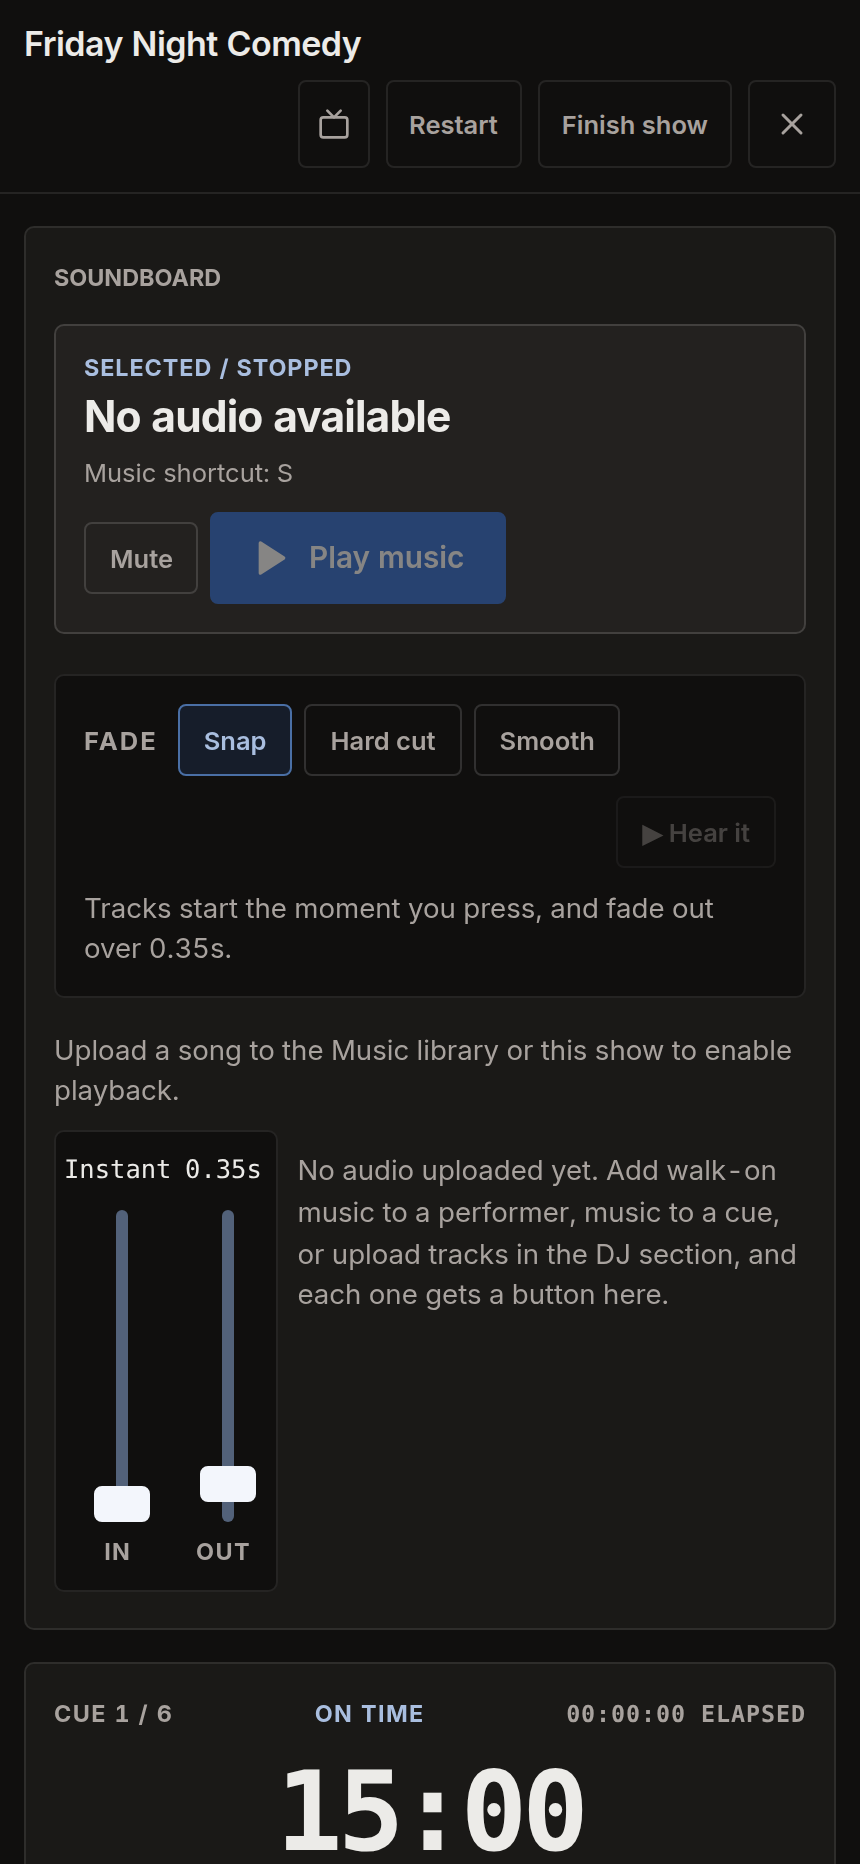
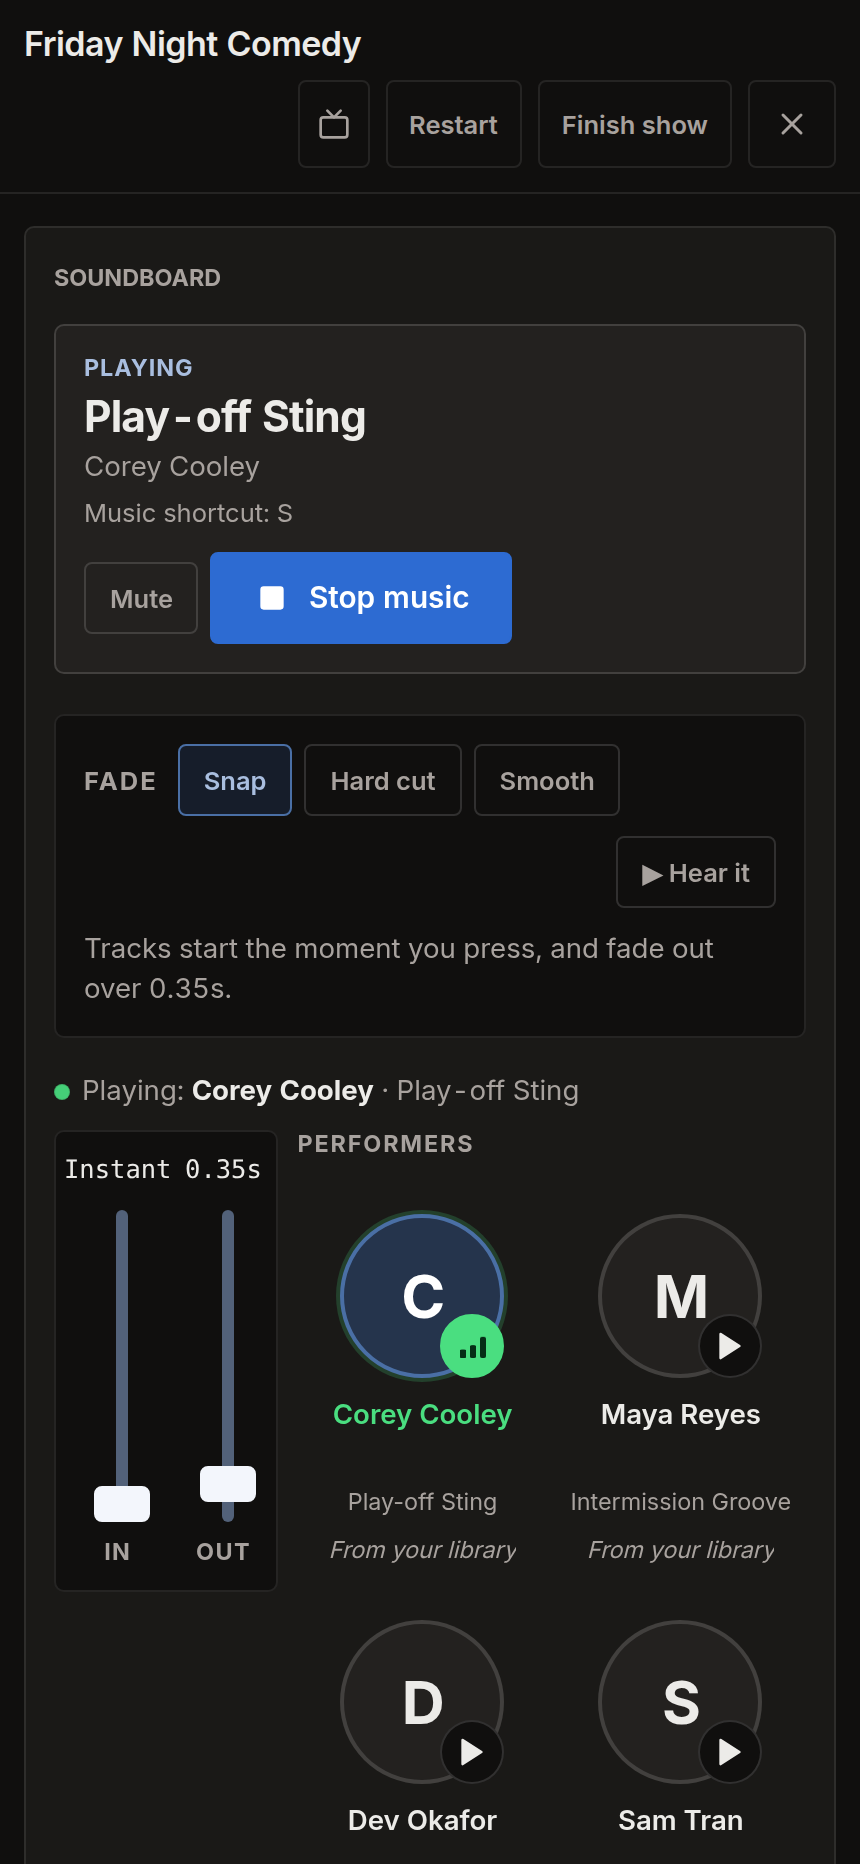
Show music playing in the screenshots, and date the contract spec from today (#311)
Every Run Show capture led with "No audio available": the demo account had
no tracks, so the screen the sales page sells showed the one thing it
couldn't do. The capture script now uploads three silent tracks to the
Music library and presses a soundboard button before capturing. The
screenshots and the /tour/ images are regenerated from it.

The contract-from-show spec now books its show 30 days out and checks
the label for that date, instead of a fixed 2099-10-03 that would one
day pass and break it the same way 2026-10-03 did.

diff --git a/e2e/contract-from-show.spec.ts b/e2e/contract-from-show.spec.ts
@@ -1,6 +1,6 @@
 import { expect, test } from '@playwright/test';
 import { emptyState, installFakeApi } from './support/fake-api.mjs';
-import { gotoTab, signUpAndOnboard } from './support/app';
+import { daysFromNow, gotoTab, signUpAndOnboard } from './support/app';
 import { writeFileSync, mkdtempSync } from 'node:fs';
 import { tmpdir } from 'node:os';
 import { join } from 'node:path';
@@ -35,6 +35,19 @@ function writeTestPdf(): string {
  * again by anybody — least of all by the performer, who does not know which
  * of the producer's venues it is.
  */
+/*
+ * Always ahead of today, rather than a fixed day that eventually passes: a
+ * past show is filed as completed and drops off the dashboard the spec opens
+ * it from further down.
+ */
+const SHOW_DATE = daysFromNow(30);
+const [year, month, day] = SHOW_DATE.split('-').map(Number);
+const SHOW_DATE_LABEL = new Date(year, month - 1, day).toLocaleDateString('en-US', {
+  month: 'long',
+  day: 'numeric',
+  year: 'numeric',
+});
+
 test.describe('a contract sent from inside a show', () => {
   test('arrives with the show date, the venue and their name already filled in', async ({ page, context, browser }) => {
     const state = emptyState();
@@ -52,7 +65,7 @@ test.describe('a contract sent from inside a show', () => {
     await gotoTab(page, 'Shows');
     await page.locator('button').filter({ hasText: /New Show/i }).first().click();
     await page.getByPlaceholder('Show name').fill('Basement Comedy Hour');
-    await page.locator('input[type=date]').fill('2099-10-03');
+    await page.locator('input[type=date]').fill(SHOW_DATE);
     await page.getByPlaceholder('Venue name').fill('The Bell House');
     await page.getByPlaceholder(/City, address/).fill('Brooklyn');
     await page.locator('button').filter({ hasText: /^Save$/ }).last().click();
@@ -113,7 +126,7 @@ test.describe('a contract sent from inside a show', () => {
     await expect(signer.locator('.signing__title')).toBeVisible();
 
     await expect(signer.locator('.signing__field--name input')).toHaveValue('Nadia Okonjo');
-    await expect(signer.getByLabel('Show date')).toHaveValue(/October 3, 2099/);
+    await expect(signer.getByLabel('Show date')).toHaveValue(new RegExp(SHOW_DATE_LABEL));
     await expect(signer.getByLabel('Venue')).toHaveValue(/Bell House/);
     await signerContext.close();
 
@@ -139,7 +152,7 @@ test.describe('a contract sent from inside a show', () => {
     await expect(typed.locator('.signing__rule-agree input')).toBeChecked();
     await expect(typed.locator('.signing__agree:not(.signing__rule-agree) input')).toBeChecked();
     // And the show's own answers are still there underneath.
-    await expect(typed.getByLabel('Show date')).toHaveValue(/October 3, 2099/);
+    await expect(typed.getByLabel('Show date')).toHaveValue(new RegExp(SHOW_DATE_LABEL));
     await reload.close();
 
     // ── A signature that lands and loses its answer ────────────────────────
@@ -221,7 +234,7 @@ test.describe('a contract sent from inside a show', () => {
     const other = await second.newPage();
     await other.goto(fromLibrary);
     await expect(other.locator('.signing__title')).toBeVisible();
-    await expect(other.getByLabel('Show date')).toHaveValue(/October 3, 2099/);
+    await expect(other.getByLabel('Show date')).toHaveValue(new RegExp(SHOW_DATE_LABEL));
     await expect(other.getByLabel('Venue')).toHaveValue(/Bell House/);
     await second.close();
 
